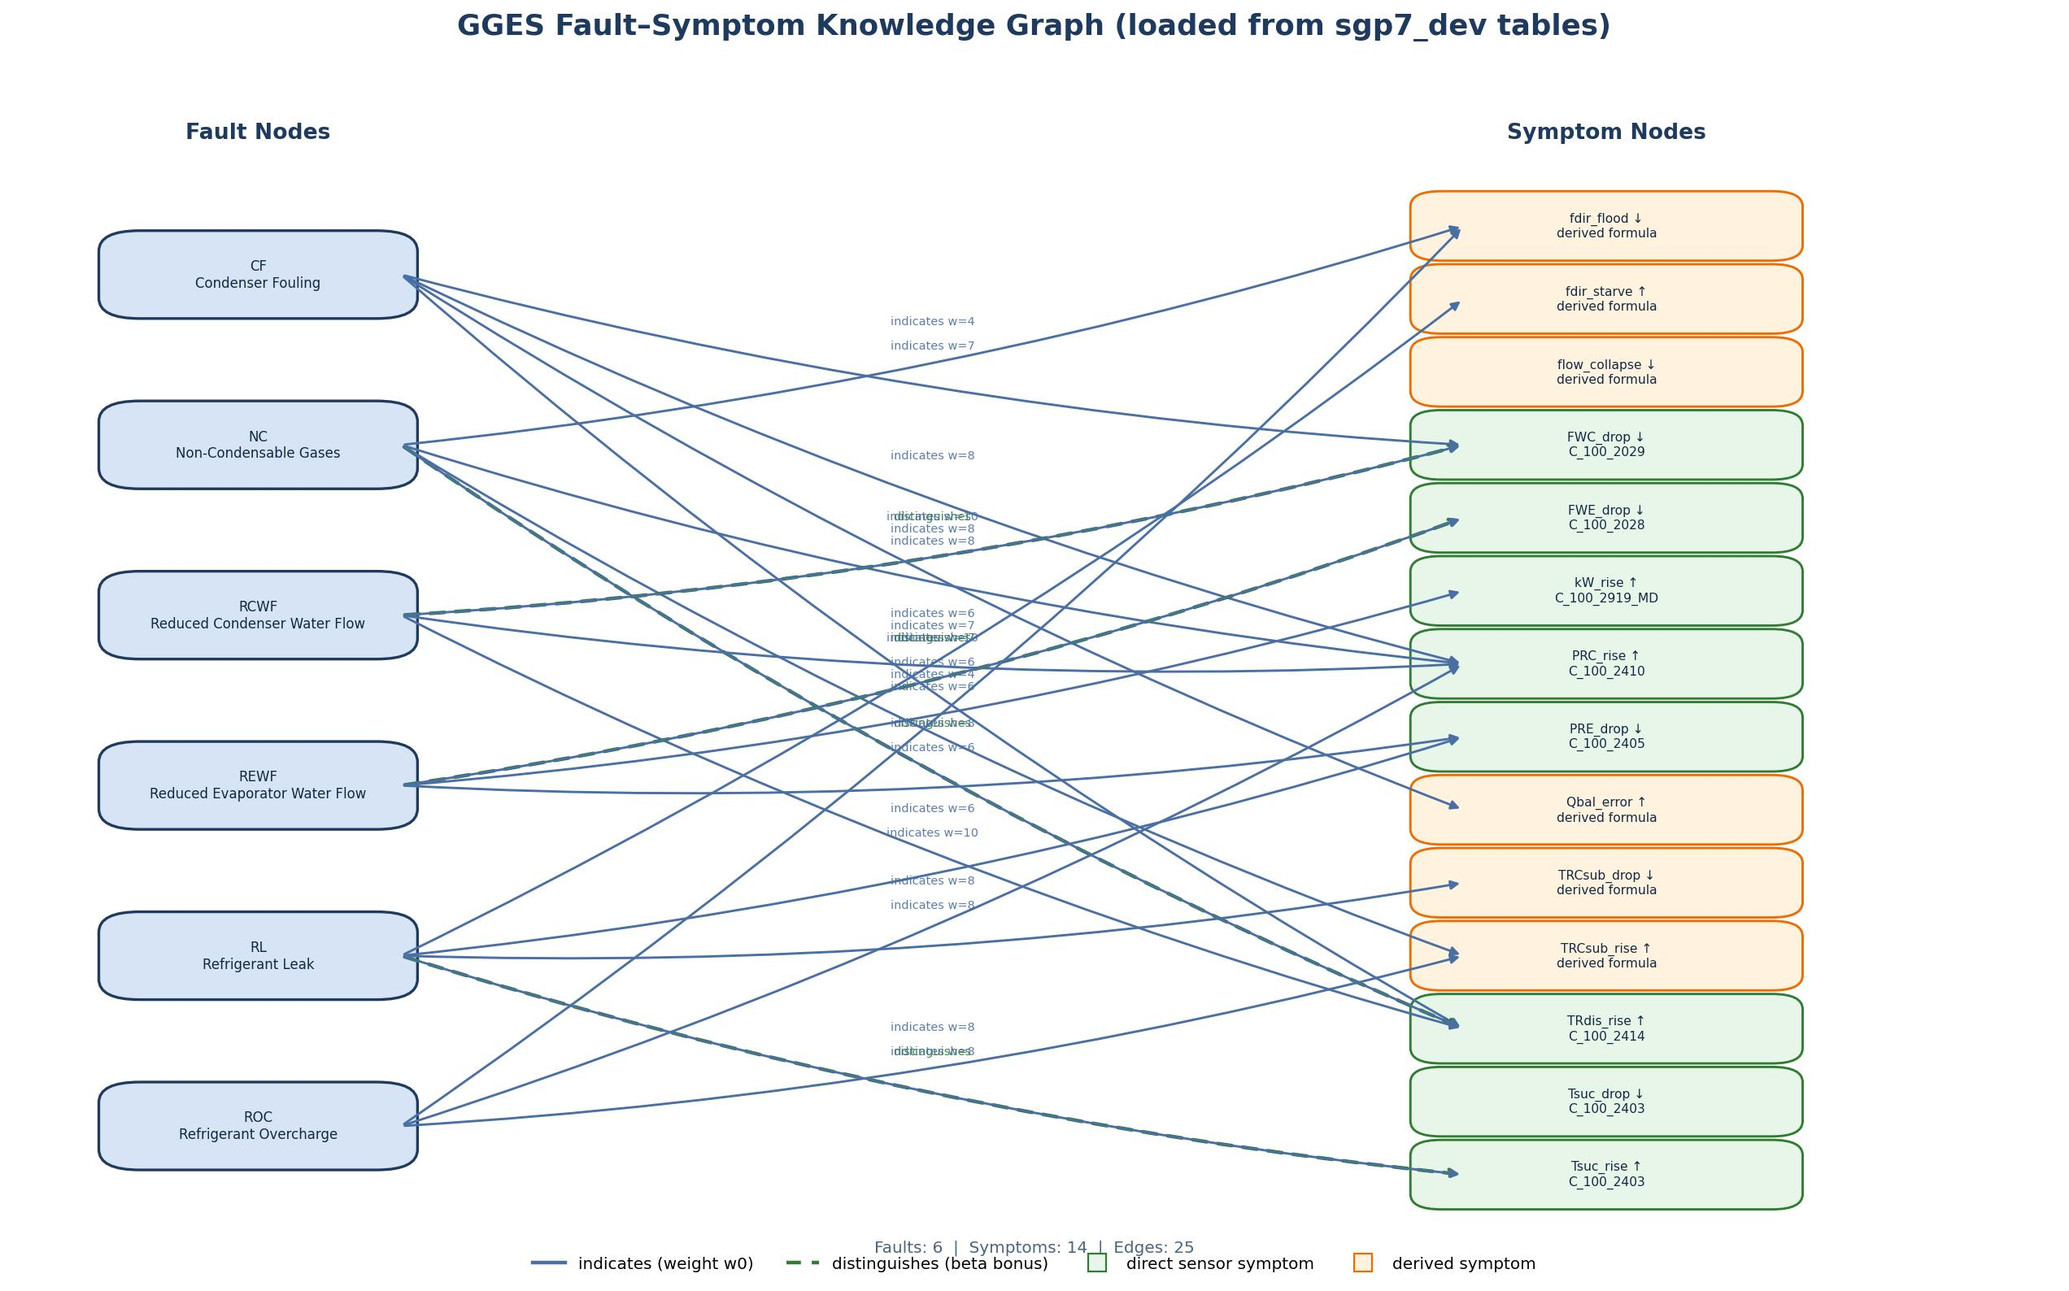
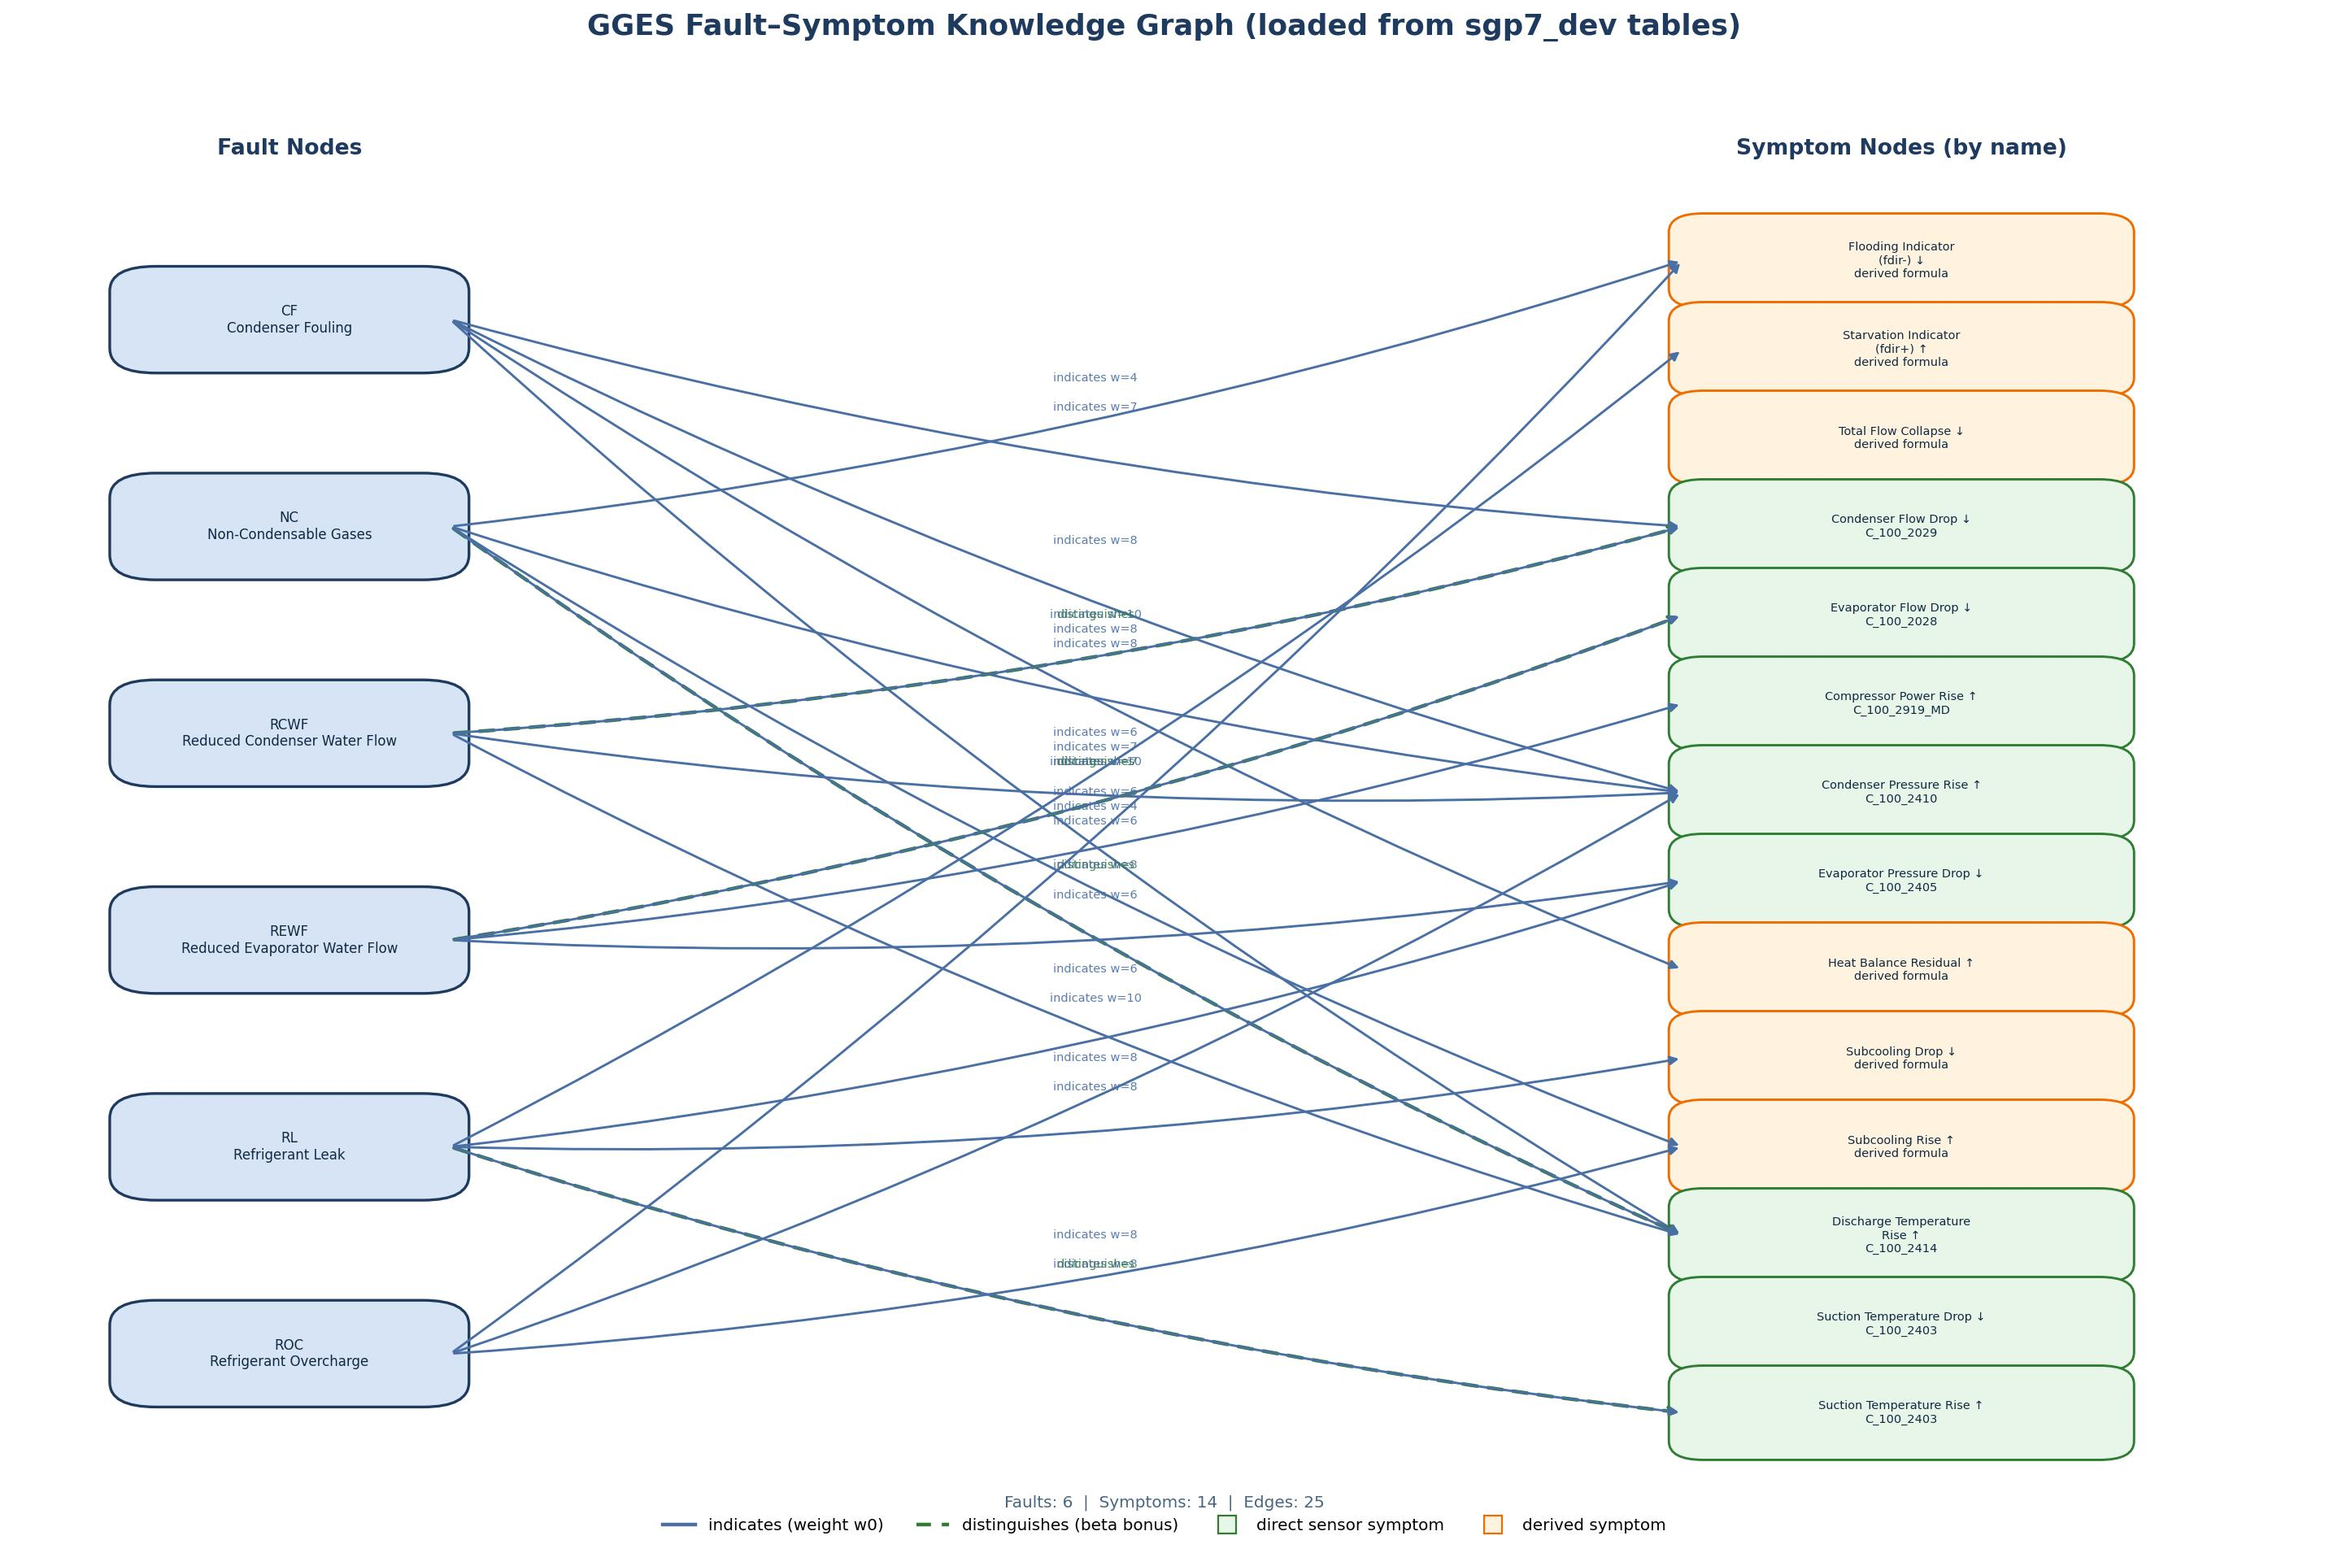
docs: clarify ASHRAE meaning and show symptom names on graph

diff --git a/graph_experiment/render_gges_graph.py b/graph_experiment/render_gges_graph.py
@@ -92,12 +92,12 @@ def build_graph(faults, symptoms, edges) -> nx.MultiDiGraph:
     for s in symptoms:
         kind = "direct" if s["sensor_id"] else "derived"
         arrow = "↑" if s["direction"] == 1 else "↓"
-        sensor_bit = s["sensor_id"] or "derived"
+        sensor_bit = s["sensor_id"] or "derived formula"
         G.add_node(
             s["id"],
             node_type="symptom",
             kind=kind,
-            label=f"{s['id']} {arrow}\n{sensor_bit}",
+            label=f"{s['name']} {arrow}\n{sensor_bit}",
         )
     for e in edges:
         G.add_edge(
@@ -119,13 +119,29 @@ def layout_positions(faults, symptoms):
         pos[f["id"]] = (0.12, y)
     for i, s in enumerate(symptoms):
         y = 1.0 - (i + 0.5) / n_s
-        pos[s["id"]] = (0.78, y)
+        pos[s["id"]] = (0.82, y)
     return pos
+
+
+def _wrap_name(name: str, max_chars: int = 22) -> str:
+    words = name.split()
+    lines, cur = [], ""
+    for w in words:
+        trial = f"{cur} {w}".strip()
+        if len(trial) <= max_chars:
+            cur = trial
+        else:
+            if cur:
+                lines.append(cur)
+            cur = w
+    if cur:
+        lines.append(cur)
+    return "\n".join(lines)
 
 
 def render_graph(G, faults, symptoms, edges, out_path: Path):
     pos = layout_positions(faults, symptoms)
-    fig, ax = plt.subplots(figsize=(16, 10), dpi=160)
+    fig, ax = plt.subplots(figsize=(18, 12), dpi=160)
     ax.set_xlim(0, 1)
     ax.set_ylim(-0.05, 1.12)
     ax.axis("off")
@@ -139,7 +155,7 @@ def render_graph(G, faults, symptoms, edges, out_path: Path):
 
     # Column headers
     ax.text(0.12, 1.05, "Fault Nodes", ha="center", fontsize=12, fontweight="bold", color="#1f3a5f")
-    ax.text(0.78, 1.05, "Symptom Nodes", ha="center", fontsize=12, fontweight="bold", color="#1f3a5f")
+    ax.text(0.82, 1.05, "Symptom Nodes (by name)", ha="center", fontsize=12, fontweight="bold", color="#1f3a5f")
 
     # Draw edges first
     for e in edges:
@@ -151,7 +167,7 @@ def render_graph(G, faults, symptoms, edges, out_path: Path):
         lw = 2.0 if is_dist else 1.3
         ax.annotate(
             "",
-            xy=(x2 - 0.07, y2),
+            xy=(x2 - 0.095, y2),
             xytext=(x1 + 0.07, y1),
             arrowprops=dict(
                 arrowstyle="-|>",
@@ -184,7 +200,7 @@ def render_graph(G, faults, symptoms, edges, out_path: Path):
         ax.add_patch(box)
         ax.text(x, y, f"{f['id']}\n{f['name']}", ha="center", va="center", fontsize=7.5, color="#102a43")
 
-    # Draw symptom boxes
+    # Draw symptom boxes — show symptom NAME (not only id)
     for s in symptoms:
         x, y = pos[s["id"]]
         is_direct = bool(s["sensor_id"])
@@ -192,10 +208,11 @@ def render_graph(G, faults, symptoms, edges, out_path: Path):
         edge = "#2e7d32" if is_direct else "#ef6c00"
         arrow = "↑" if s["direction"] == 1 else "↓"
         sensor_bit = s["sensor_id"] or "derived formula"
+        name_txt = _wrap_name(s["name"], max_chars=24)
         box = FancyBboxPatch(
-            (x - 0.09, y - 0.028),
-            0.18,
-            0.056,
+            (x - 0.095, y - 0.032),
+            0.19,
+            0.064,
             boxstyle="round,pad=0.006,rounding_size=0.015",
             linewidth=1.3,
             edgecolor=edge,
@@ -205,10 +222,10 @@ def render_graph(G, faults, symptoms, edges, out_path: Path):
         ax.text(
             x,
             y,
-            f"{s['id']} {arrow}\n{sensor_bit}",
+            f"{name_txt} {arrow}\n{sensor_bit}",
             ha="center",
             va="center",
-            fontsize=7,
+            fontsize=6.5,
             color="#102a43",
         )
 
@@ -253,7 +270,7 @@ def main():
     print("Symptoms:")
     for s in symptoms:
         kind = "direct" if s["sensor_id"] else "derived"
-        print(f"  - {s['id']:14} [{kind:7}] dir={s['direction']:+d}  {s['sensor_id'] or '-'}")
+        print(f"  - {s['name']:32} [{kind:7}] dir={s['direction']:+d}  {s['sensor_id'] or '-'}")
     print(f"Wrote: {out}")
 
 

diff --git a/graph_experiment/gges_fault_symptom_slides.md b/graph_experiment/gges_fault_symptom_slides.md
@@ -7,9 +7,14 @@
 
 **Graph-Grounded Evidence Scoring (GGES)** converts continuous chiller telemetry into a physics-consistent fault verdict.
 
+### What does ASHRAE mean?
+**ASHRAE** = **American Society of Heating, Refrigerating and Air-Conditioning Engineers**.
+
+It is the industry standards body for HVAC and refrigeration. The fault–symptom knowledge used here comes from ASHRAE research project **RP-1043**, which published laboratory-validated chiller fault signatures (pressure, temperature, flow, power patterns) used as the physics basis for this graph.
+
 **Problem it solves**
 - Chillers (vapour-compression cycle) couple evaporator, compressor, condenser, and water loops.
-- Different faults share overlapping sensor signatures (e.g. NC vs ROC both raise condenser pressure).
+- Different faults share overlapping sensor signatures (e.g. Non-Condensable Gases vs Refrigerant Overcharge both raise condenser pressure).
 - Closed-set ML can force an unseen fault into the nearest known class.
 
 **ASHRAE foundation**
@@ -37,10 +42,10 @@ GGES(fault) = Support (indicates) + Bonus (distinguishes) - Penalty (contradicti
 Fault  --(indicates / distinguishes)-->  Symptom
 ```
 
-| Layer | Count (paper) | Examples |
+| Layer | Count (paper) | Examples (names) |
 | --- | --- | --- |
-| Fault nodes | 6 | CF, RL, ROC, RCWF, REWF, NC |
-| Symptom nodes | 14 | PRC_rise, FWC_drop, fdir_flood, Qbal_error |
+| Fault nodes | 6 | Condenser Fouling, Refrigerant Leak, Refrigerant Overcharge, Reduced Condenser Water Flow, Reduced Evaporator Water Flow, Non-Condensable Gases |
+| Symptom nodes | 14 | Condenser Pressure Rise, Condenser Flow Drop, Flooding Indicator, Heat Balance Residual |
 
 **Edge types used for GGES scoring**
 
@@ -50,8 +55,8 @@ Fault  --(indicates / distinguishes)-->  Symptom
 | `distinguishes` | Symptom uniquely separates one fault from competitors | Adds `beta × confidence` bonus |
 
 **Why both edges matter**
-- Shared symptoms alone cannot separate NC vs ROC.
-- A `distinguishes` edge (e.g. NC → TRdis_rise) breaks the tie when discharge temperature rises.
+- Shared symptoms alone cannot separate Non-Condensable Gases vs Refrigerant Overcharge.
+- A `distinguishes` edge (Non-Condensable Gases → Discharge Temperature Rise) breaks the tie when discharge temperature rises.
 
 **DB tables in `sgp7_dev`**
 - `gges_fault_nodes`
@@ -62,17 +67,17 @@ Fault  --(indicates / distinguishes)-->  Symptom
 
 ## Slide 3 — Symptoms: Direct Sensors, Derived Formulas, and Z-Score Activation
 
-### Symptom sources
+### Symptom sources (by symptom name)
 
-| Type | Examples | How measured |
+| Type | Symptom names | How measured |
 | --- | --- | --- |
-| Direct sensor | PRC_rise, FWC_drop, PRE_drop, kW_rise | One mapped `sensor_id` from `sensor_master` |
-| Derived physics | TRCsub_rise, fdir_flood, Qbal_error, flow_collapse | Formula over multiple sensors / features |
+| Direct sensor | Condenser Pressure Rise, Condenser Flow Drop, Evaporator Pressure Drop, Compressor Power Rise | One mapped `sensor_id` from `sensor_master` |
+| Derived physics | Subcooling Rise, Flooding Indicator, Heat Balance Residual, Total Flow Collapse | Formula over multiple sensors / features |
 
 **HT-CH-01 direct mapping examples**
-- PRC → `C_100_2410` (`CH-CON-RFT-PRES`)
-- FWC → `C_100_2029` (`CH-CWS-FLOW`)
-- TRdis proxy → `C_100_2414` (`CH-OIL-DIS-TEMP`)
+- Condenser Pressure Rise → `C_100_2410` (`CH-CON-RFT-PRES`)
+- Condenser Flow Drop → `C_100_2029` (`CH-CWS-FLOW`)
+- Discharge Temperature Rise (proxy) → `C_100_2414` (`CH-OIL-DIS-TEMP`)
 
 ### What is a z-score? (basis of symptom activation)
 
@@ -96,7 +101,7 @@ conf = linear scale otherwise
 | `tau_weak` | 0.3 | Noise floor (ignore small deviations) |
 | `tau_strong` | 1.5 | Strong certainty (full confidence) |
 
-**Key point:** We do not train a model for `TRCsub_rise`. We compute/derive the feature, convert to z-score, then activate the symptom node by direction.
+**Key point:** We do not train a model for Subcooling Rise. We compute/derive the feature, convert to z-score, then activate the symptom node by direction.
 
 ---
 
@@ -129,7 +134,7 @@ Learning would bias toward faults already seen. Expert ASHRAE weights preserve f
 
 ## Slide 5 — Graph Built from Tables (Reference Image)
 
-The image below is **generated from the live DB tables** (not hand-drawn). All 6 faults and **14 symptom nodes** are loaded from `sgp7_dev`.
+The image below is **generated from the live DB tables**. Symptom boxes show the **symptom name** (from `gges_symptom_nodes.name`), direction arrow, and sensor/derived tag.
 
 ![GGES Fault–Symptom Knowledge Graph](gges_fault_symptom_graph.jpg)
 
@@ -143,7 +148,7 @@ python render_gges_graph.py --out gges_fault_symptom_graph.jpg
 
 `render_gges_graph.py` reads:
 1. `sgp7_dev.gges_fault_nodes`
-2. `sgp7_dev.gges_symptom_nodes` (direct = has `sensor_id`, derived = formula)
+2. `sgp7_dev.gges_symptom_nodes` (display = **name**; direct = has `sensor_id`, derived = formula)
 3. `sgp7_dev.gges_edges` (`indicates` / `distinguishes` + weight)
 
 **Table → graph mapping**
@@ -151,7 +156,7 @@ python render_gges_graph.py --out gges_fault_symptom_graph.jpg
 | Table | Graph role |
 | --- | --- |
 | `sgp7_dev.gges_fault_nodes` | Left-side fault hypotheses |
-| `sgp7_dev.gges_symptom_nodes` | Right-side directional symptoms (14) |
+| `sgp7_dev.gges_symptom_nodes` | Right-side symptom **names** (14) |
 | `sgp7_dev.gges_edges` | Directed edges with `indicates` / `distinguishes` + weight |
 
 **Current seed counts (HT-CH-01)**
@@ -164,34 +169,34 @@ python render_gges_graph.py --out gges_fault_symptom_graph.jpg
 ## Slide 6 — Traversal Example: Root Cause with Distinguishes + Weights
 
 **Telemetry (z-scores)**
-- PRC = +2.0
-- TRCsub = +1.8
-- TRdis = +2.2
-- fdir ≈ 0 (no flooding activation)
+- Condenser Pressure (PRC) = +2.0
+- Subcooling (TRCsub) = +1.8
+- Discharge Temperature (TRdis) = +2.2
+- Flooding Indicator (fdir) ≈ 0 (no activation)
 
 **Step A — Symptom activation**
-- PRC_rise → supportive, conf = 1.0
-- TRCsub_rise → supportive, conf = 1.0
-- TRdis_rise → supportive, conf = 1.0
-- fdir_flood → conf = 0.0
+- Condenser Pressure Rise → supportive, conf = 1.0
+- Subcooling Rise → supportive, conf = 1.0
+- Discharge Temperature Rise → supportive, conf = 1.0
+- Flooding Indicator → conf = 0.0
 
-**Step B — Score ROC (shared symptoms only)**
-- indicates PRC_rise: 8.0 × 1.0 = 8.0
-- indicates TRCsub_rise: 8.0 × 1.0 = 8.0
-- indicates fdir_flood: 0
-- **ROC total = 16.0**
+**Step B — Score Refrigerant Overcharge (shared symptoms only)**
+- indicates Condenser Pressure Rise: 8.0 × 1.0 = 8.0
+- indicates Subcooling Rise: 8.0 × 1.0 = 8.0
+- indicates Flooding Indicator: 0
+- **Refrigerant Overcharge total = 16.0**
 
-**Step C — Score NC (shared + distinguishing)**
-- indicates PRC_rise: 8.0 × 1.0 = 8.0
-- indicates TRCsub_rise: 6.0 × 1.0 = 6.0
-- indicates TRdis_rise: 8.0 × 1.0 = 8.0
-- distinguishes TRdis_rise: beta × 1.0 = +2.0
-- **NC total = 24.0**
+**Step C — Score Non-Condensable Gases (shared + distinguishing)**
+- indicates Condenser Pressure Rise: 8.0 × 1.0 = 8.0
+- indicates Subcooling Rise: 6.0 × 1.0 = 6.0
+- indicates Discharge Temperature Rise: 8.0 × 1.0 = 8.0
+- distinguishes Discharge Temperature Rise: beta × 1.0 = +2.0
+- **Non-Condensable Gases total = 24.0**
 
 **Verdict**
-- NC (24.0) > ROC (16.0)
-- Root cause selected: **Non-Condensable Gases (NC)**
-- The `distinguishes` edge on discharge-temperature rise is what separates NC from ROC when pressure/subcooling look similar.
+- Non-Condensable Gases (24.0) > Refrigerant Overcharge (16.0)
+- Root cause selected: **Non-Condensable Gases**
+- The `distinguishes` edge on Discharge Temperature Rise is what separates Non-Condensable Gases from Refrigerant Overcharge when pressure/subcooling look similar.
 
 ```text
 Activated symptoms → traverse Fault→Symptom edges → accumulate w0 and beta → argmax GGES
